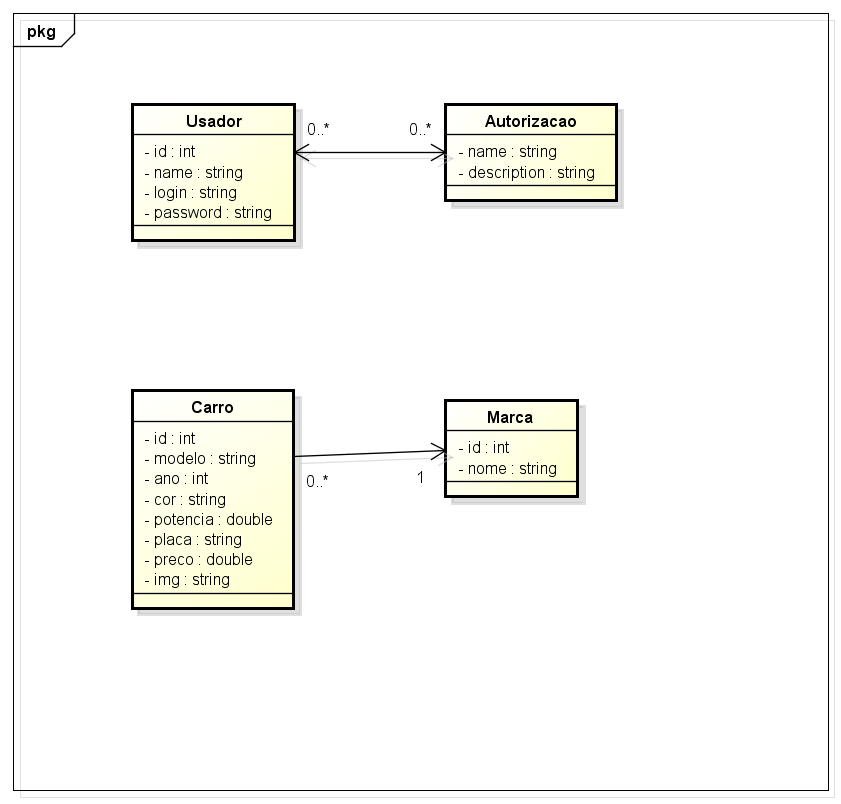
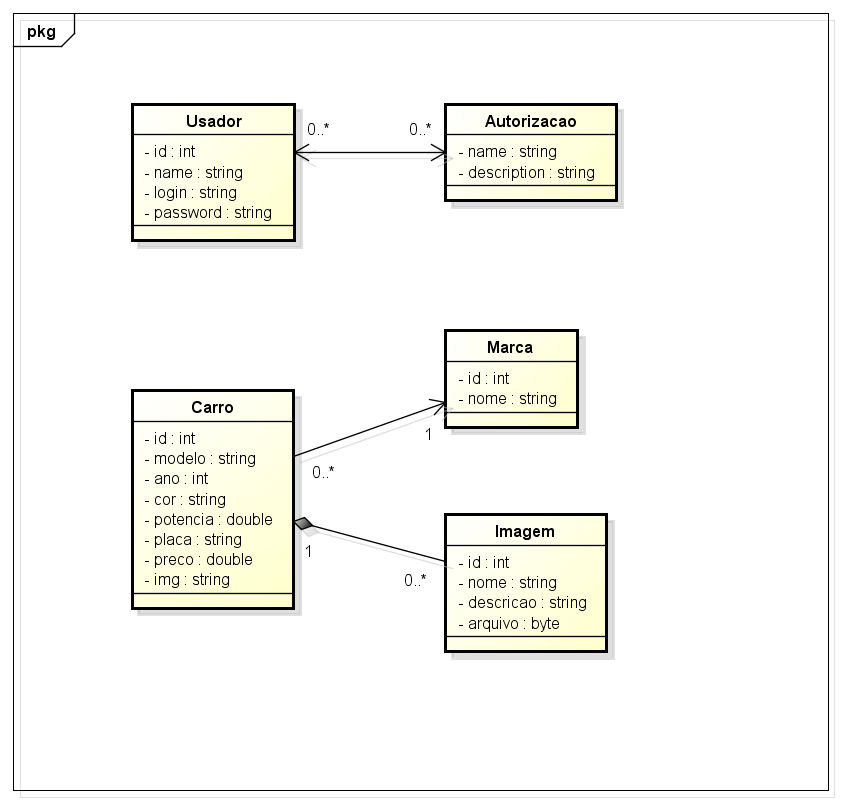
incluido classe imagem e teste

Changed region(s): [[0.3401, 0.4042, 0.742, 0.8396], [0.3401, 0.6219, 0.4637, 0.6841]]

diff --git a/src/br/edu/ifsul/modelo/Imagem.java b/src/br/edu/ifsul/modelo/Imagem.java
@@ -1,0 +1,122 @@
+
+package br.edu.ifsul.modelo;
+
+import java.io.Serializable;
+import java.util.Objects;
+import javax.persistence.Column;
+import javax.persistence.Entity;
+import javax.persistence.GeneratedValue;
+import javax.persistence.GenerationType;
+import javax.persistence.Id;
+import javax.persistence.JoinColumn;
+import javax.persistence.Lob;
+import javax.persistence.ManyToOne;
+import javax.persistence.SequenceGenerator;
+import javax.persistence.Table;
+import javax.validation.constraints.NotNull;
+import org.hibernate.validator.constraints.NotBlank;
+
+/**
+ *
+ * @author Ricardo/Joel
+ */
+@Entity
+@Table(name = "imagem")
+public class Imagem implements Serializable{
+    
+    @Id
+    @SequenceGenerator(name = "seq_imagem", sequenceName = "seq_imagem_id", allocationSize = 1)
+    @GeneratedValue(generator = "seq_imagem", strategy = GenerationType.SEQUENCE)
+    private Integer id;
+    
+    @NotNull(message = "O nome deve ser informado")
+    @NotBlank(message = "O nome não pode ser em branco")
+    @Column(name = "nome", nullable = false, length = 50)
+    private String nome;
+    
+    @NotNull(message = "A descrição deve ser informada")
+    @NotBlank(message = "A descrição não pode ser em branco")
+    @Column(name = "descricao", nullable = false, length = 50)    
+    private String descricao;
+    
+    @NotNull(message = "O arquivo deve ser informado")
+    @Column(name = "arquivo", nullable = false)
+    @Lob
+    private byte[] arquivo;
+    
+    @NotNull(message = "O carro deve ser informado")
+    @ManyToOne
+    @JoinColumn(name = "carro", referencedColumnName = "id", nullable = false)
+    private Carro carro;
+
+    public Imagem() {
+        
+    }
+
+    public Integer getId() {
+        return id;
+    }
+
+    public void setId(Integer id) {
+        this.id = id;
+    }
+
+    public String getNome() {
+        return nome;
+    }
+
+    public void setNome(String nome) {
+        this.nome = nome;
+    }
+
+    public String getDescricao() {
+        return descricao;
+    }
+
+    public void setDescricao(String descricao) {
+        this.descricao = descricao;
+    }
+
+    public byte[] getArquivo() {
+        return arquivo;
+    }
+
+    public void setArquivo(byte[] arquivo) {
+        this.arquivo = arquivo;
+    }
+
+    public Carro getCarro() {
+        return carro;
+    }
+
+    public void setCarro(Carro carro) {
+        this.carro = carro;
+    }
+
+    @Override
+    public int hashCode() {
+        int hash = 3;
+        hash = 97 * hash + Objects.hashCode(this.id);
+        return hash;
+    }
+
+    @Override
+    public boolean equals(Object obj) {
+        if (this == obj) {
+            return true;
+        }
+        if (obj == null) {
+            return false;
+        }
+        if (getClass() != obj.getClass()) {
+            return false;
+        }
+        final Imagem other = (Imagem) obj;
+        if (!Objects.equals(this.id, other.id)) {
+            return false;
+        }
+        return true;
+    }
+    
+    
+}

diff --git a/src/br/edu/ifsul/modelo/Carro.java b/src/br/edu/ifsul/modelo/Carro.java
@@ -2,14 +2,19 @@
 package br.edu.ifsul.modelo;
 
 import java.io.Serializable;
+import java.util.ArrayList;
+import java.util.List;
+import javax.persistence.CascadeType;
 import javax.persistence.Column;
 import javax.persistence.Entity;
+import javax.persistence.FetchType;
 import javax.persistence.ForeignKey;
 import javax.persistence.GeneratedValue;
 import javax.persistence.GenerationType;
 import javax.persistence.Id;
 import javax.persistence.JoinColumn;
 import javax.persistence.ManyToOne;
+import javax.persistence.OneToMany;
 import javax.persistence.SequenceGenerator;
 import javax.persistence.Table;
 import javax.validation.constraints.NotNull;
@@ -71,9 +76,22 @@ public class Carro implements Serializable{
     @NotNull(message = "A marca deve ser informado")
     @JoinColumn(name = "marca", referencedColumnName = "id",  nullable = false, foreignKey = @ForeignKey(name = "fK_marca_id"))
     private Marca marca;
+    
+    @OneToMany(mappedBy = "carro", cascade = CascadeType.ALL, 
+            orphanRemoval = true, fetch = FetchType.LAZY)
+    private List<Imagem> imagens = new ArrayList<>();
 
     public Carro() {
         
+    }
+    
+    public void adicionarImagem(Imagem obj){
+        obj.setCarro(this);
+        this.imagens.add(obj);
+    }
+    
+       public void removerImagem(int index){
+        this.imagens.remove(index);
     }
     
 
@@ -147,6 +165,14 @@ public class Carro implements Serializable{
 
     public void setMarca(Marca marca) {
         this.marca = marca;
+    }
+
+    public List<Imagem> getImagens() {
+        return imagens;
+    }
+
+    public void setImagens(List<Imagem> imagens) {
+        this.imagens = imagens;
     }
     
 }

diff --git a/test/br/edu/ifsul/testes/TestePersistirImagem.java b/test/br/edu/ifsul/testes/TestePersistirImagem.java
@@ -1,8 +1,12 @@
 
 package br.edu.ifsul.testes;
 
-import br.edu.ifsul.modelo.Autorizacao;
-import br.edu.ifsul.modelo.Marca;
+
+import br.edu.ifsul.modelo.Carro;
+import br.edu.ifsul.modelo.Imagem;
+import java.nio.file.Files;
+import java.nio.file.Path;
+import java.nio.file.Paths;
 import javax.persistence.EntityManager;
 import javax.persistence.EntityManagerFactory;
 import javax.persistence.Persistence;
@@ -15,12 +19,12 @@ import org.junit.Test;
  *
  * @author Ricardo/Joel
  */
-public class TestePersistirMarca {
+public class TestePersistirImagem {
     
     EntityManagerFactory emf;
     EntityManager em;
     
-    public TestePersistirMarca() {
+    public TestePersistirImagem() {
     }
     
     @Before
@@ -39,10 +43,15 @@ public class TestePersistirMarca {
     public void teste(){
         boolean exception = false;
         try {
-           em.getTransaction().begin();
-            Marca obj = new Marca();
-            obj.setNome("GM");
-            em.persist(obj);
+            Carro c = em.find(Carro.class, 2);
+            Imagem i = new Imagem();
+            i.setNome("fusca1.jpg");
+            i.setDescricao("Imagem do fusca1");
+            Path path = Paths.get("C:\\Users\\Ricardo\\Documents\\NetBeansProjects\\TA-2018-Etapa2-Model\\src\\br\\edu\\ifsul\\img\\fusca1.jpg");
+            i.setArquivo(Files.readAllBytes(path));
+            c.adicionarImagem(i);         
+            em.getTransaction().begin();
+            em.persist(c);
             em.getTransaction().commit();
         } catch(Exception e){
             exception = true;
